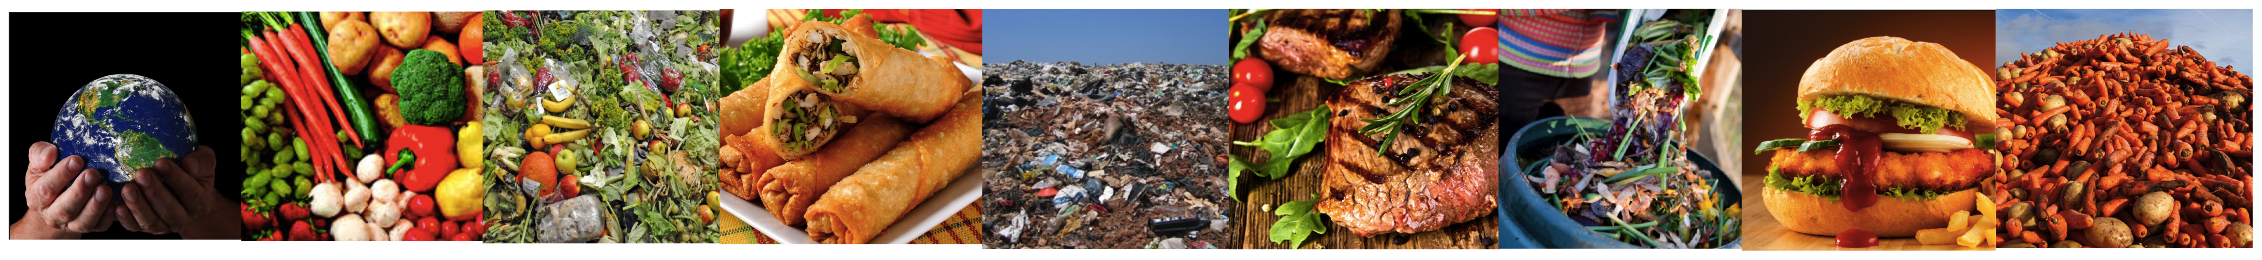
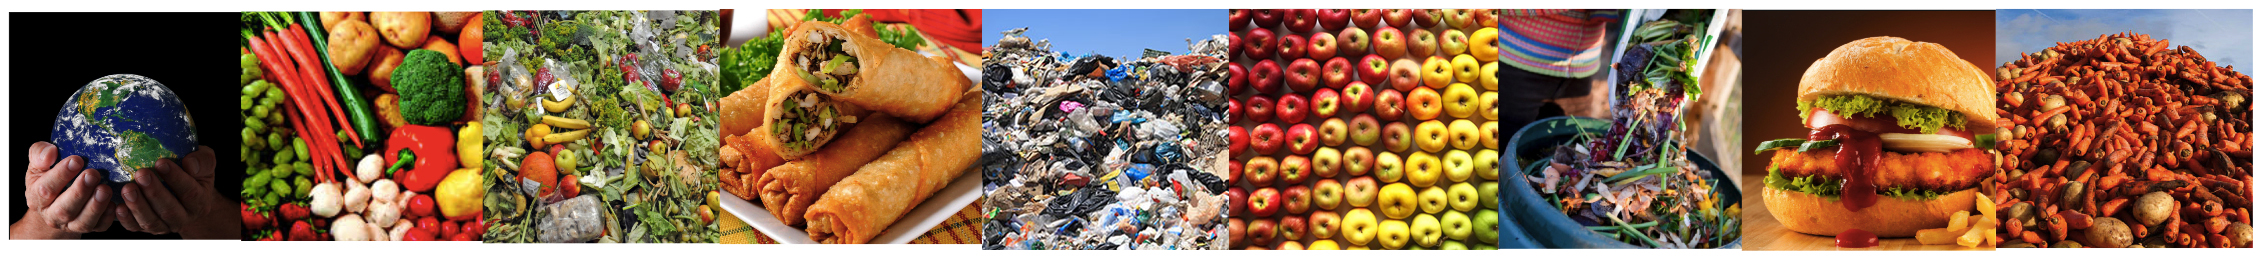
Updated Header Image; Cleaned up code

Changed region(s): [[0.4332, 0.0308, 0.6808, 0.9846]]

diff --git a/index.html b/index.html
@@ -13,7 +13,7 @@
         <div class="text-center">
             <h1>WASTE MATTERS!</h1>
             <p class="lead">
-            <h3 style= "color: #539dba"> Understanding food waste on the global, local and personal level.</h3>
+                <h3 style= "color: #539dba"> Understanding food waste on the global, local and personal level.</h3>
             </p>
         </div>
 
@@ -23,14 +23,6 @@
                 <img src="img/Pic1.jpg">
             </div>
         </div>
-
-
-
-<!--        <header class="row">
-            <div class="col-xs-12">
-                <img src="img/header.png">
-            </div>
-        </header>-->
 
 
 
@@ -126,60 +118,6 @@
 
 
                     </div>
-
-
-                        <!--<div class="col-xs-12">
-
-                        <h4>Main Quesitons:</h4>
-                        <table class="table table-bordered table-striped">
-                            <thead>
-                                <tr>
-                                    <th>How/What/When/Why</th>
-                                    <th>Teasers</th>
-                                    <th>Explore It!</th>
-                                </tr>
-                            </thead>
-                            <tbody>
-                                <tr>
-                                    <td>How much food is wasted worldwide, by country?</td>
-                                    <td>
-                                        According to FAO 1/3 of total food produced globally goes to waste.<br><br>
-                                        Some countries waste more food than others - many factors come into play.
-                                    </td>
-                                    <td>Select a year & Click on a country.</td>
-                                </tr>
-                                <tr>
-                                    <td>Which types of foods are most wasted?</td>
-                                    <td>
-                                        Some food types are wasted more than others around the world, and this amount changes across years.<br>
-                                        High calorie foods are wasted the most.
-                                    </td>
-                                    <td>
-                                        Click on the drop down to select from one of the top 10 food types.<br><br>
-                                        <i>Even Alcoholic beverages have a place in food waste.</i>
-                                    </td>
-                                </tr>
-                                <tr>
-                                    <td>What are the temporal trends in food waste?</td>
-                                    <td>Food waste is not static; across the years levels of food wasted per country have changed, as well per food type.</td>
-                                    <td>With the slider you can check for trends by country and/or food type.</td>
-                                </tr>
-                                <tr>
-                                    <td>How does a country's average income correlate with food waste?</td>
-                                    <td>Countries with higher average income tend to waste more food.</td>
-                                    <td>With the line graph you can see the relationship between food waste and income per capita.</td>
-                                </tr>
-                                <tr>
-                                    <td>What can be done locally to reduce food waste?</td>
-                                    <td>Everyone can reduce the amount of food wasted -  you can do this with simple changes to your day-to-day life.</td>
-                                    <td>
-                                        Check out the map for a food bank or food pantry near you.<br><br>
-                                        Don’t miss our STOP WASTING FOOD tips! Easy to do & share.
-                                    </td>
-                                </tr>
-                            </tbody>
-                        </table>
-                    </div>-->
                 </div>
                 <div class="col-xs-12">
                     <div class="row">
@@ -247,7 +185,7 @@
                         <br>
                         <br>
                         <p class="lead">
-                        <h2 style="color:#41AB5D">Food Waste: a local problem.</h2>
+                            <h2 style="color:#41AB5D">Food Waste: a local problem.</h2>
                         </p>
                     </div>
 
@@ -280,65 +218,6 @@
                         <i> What can you tell about your zipcode?</i>
 
                     </div>
-
-                    <!--<div class="col-xs-6">
-                        <p>In America it’s estimated that 1860000 tones of food were wasted in 2011. Image 6000 airplanes with cargo- putting them together they will create a line long enough to cover the distance BOSTON - PARIS.</p>
-                        <img src="img/local.png">
-                        <p>Consumer and foodservice food waste is the largest source of food waste, this includes restaurants, universities and hospitals. This issue happens in all countries and in all cities, including your city. Discover the main contributors of food waste in Boston.</p>
-                    </div>-->
-
-                    <!--<div class="col-sm-4" id="massMapm">
-
-                        <form class="form-inline">
-                            <div class="form-group">
-
-                                <label for="Selector">Data: </label>
-                                <select class="form-control" id="selector">
-                                    <option value="Waste">Total Waste</option>
-                                    <option value="F">Waste of Food and Beverage Manufacturers/Processors</option>
-                                    <option value="W">Waste of Wholesale Distributors</option>
-                                    <option value="IH">Waste of Healthcare Facilities</option>
-                                    <option value="IS">Waste of Independent Schools</option>
-                                    <option value="IC">Waste of Colleges/Universities</option>
-                                    <option value="IP">Waste of Correctional Facilities</option>
-                                    <option value="C">Waste of Resorts and Conference Facilities</option>
-                                    <option value="G">Waste of Resorts and Restaurants</option>
-                                    <option value="R">Waste of Supermarkets and Grocery Stores</option>
-                                </select>
-
-                            </div>
-                        </form>
-
-                    </div>-->
-
-
-
-
-<!--                    <div class="col-sm-4" id="massMap">
-                        <form class="form-inline">
-                            <div class="form-group">
-
-                            <label for="Selector">Data: </label>
-                        <select class="form-control" id="selector">
-                            <option value="Waste">Total Waste</option>
-                            <option value="F">Waste of Food and Beverage Manufacturers/Processors</option>
-                            <option value="W">Waste of Wholesale Distributors</option>
-                            <option value="IH">Waste of Healthcare Facilities</option>
-                            <option value="IS">Waste of Independent Schools</option>
-                            <option value="IC">Waste of Colleges/Universities</option>
-                            <option value="IP">Waste of Correctional Facilities</option>
-                            <option value="C">Waste of Resorts and Conference Facilities</option>
-                            <option value="G">Waste of Resorts and Restaurants</option>
-                            <option value="R">Waste of Supermarkets and Grocery Stores</option>
-                        </select>
-
-                            </div>
-                        </form>
-
-                    </div>
-                </div>-->
-
-
                     <div class="row">
                         <div class="col-xs-7" id="p1">
                             <div id="main">
@@ -370,17 +249,9 @@
                                         <option value="G">Waste of Resorts and Restaurants</option>
                                         <option value="R">Waste of Supermarkets and Grocery Stores</option>
                                     </select>
-
                                 </div>
                             </form>
-
-
-
-
                         </div>
-
-
-
                     </div>
 
 
@@ -402,7 +273,7 @@
                     <br>
                     <br>
                     <p class="lead">
-                    <h2 style="color:#D1B717">Food Waste: a personal problem.</h2>
+                        <h2 style="color:#D1B717">Food Waste: a personal problem.</h2>
                     </p>
                 </div>
 
@@ -425,7 +296,7 @@
                         <div class="col-xs-12">
                             Sharing your food at food banks can be highly effective.You can also encourage your friends and family to donate theirs.
                             There are many institutions like these close to you.
-                            <h5 style="color:#D1B717">Check the map on the right to find the  foodbank - food pantry closest to you.</h5>
+                            <h5 style="color:#D1B717">Check the map on the right to find the foodbank - food pantry closest to you.</h5>
 
                             <br>
                             <br>
@@ -442,7 +313,7 @@
                     <br>
                     <br>
                     <p class="lead">
-                    <h2 style="color:#c97424">Food Waste: conclusions.</h2>
+                        <h2 style="color:#c97424">Food Waste: conclusions.</h2>
                     </p>
                 </div>
 
@@ -466,6 +337,8 @@
                         Data References:
                     </p>
                     <div class="list-group">
+                        <a href="http://data.worldbank.org/" class="list-group-item">World Map Data</a>
+                        <a href="http://faostat3.fao.org/download/FB/BC/E" class="list-group-item">World Map Data</a>
                         <a href="https://www.dropbox.com/sh/3kcuy1arl3pa8ox/AAASxNvH4wJz05DkwcX_X05Ma/Mass%20Food" class="list-group-item">Massachusetts Food Waste</a>
                         <a href="http://www.zillow.com/static/shp/ZillowNeighborhoods-MA.zip" class="list-group-item">Boston Map</a>
                         <a href="https://data.cityofboston.gov/City-Services/Boston-CANshare-Sites-2012/7xqx-zy2t" class="list-group-item">Boston Food Sharing Locations</a>
@@ -474,12 +347,27 @@
                     <p class="lead">
                         Design References:
                     </p>
+                    <small>We explicitly used and adapted (javascript,css,html) code from the following websites</small>
                     <div class="list-group">
                         <a href="https://bl.ocks.org/kerryrodden/7090426" class="list-group-item">Kerry Rodden: Sequences sunburst</a>
                         <a href="http://stackoverflow.com/questions/24582083/improving-d3-sequence-sunburst-example" class="list-group-item">Improving D3 Sequence Sunburst Example</a>
                         <a href="http://bl.ocks.org/KoGor/5685876" class="list-group-item"> http://bl.ocks.org: Russia choropleth example</a>
                         <a href="https://bl.ocks.org/mbostock/3885211" class="list-group-item">Stacked Area Chart</a>
                         <a href="http://bl.ocks.org/mbostock/2206340" class="list-group-item">Zoom Function</a>
+                    </div>
+
+                    <p class="lead">
+                        Image References:
+                    </p>
+                    <div class="list-group">
+                        <a href="http://www.technobuffalo.com/wp-content/uploads/2014/04/fast-food.jpg" class="list-group-item">Header Image</a>
+                        <a href="http://images.huffingtonpost.com/2015-12-23-1450895141-5774790-food02.jpg" class="list-group-item">Header Image</a>
+                        <a href="https://eat24-files-live.s3.amazonaws.com/cuisines/v4/thai.jpg?Signature=p0GblKZzVrDGppUt9mhESV70q0I%3D&Expires=1462135894&AWSAccessKeyId=AKIAIEJ2GCCJRT63TBYA" class="list-group-item">Header Image</a>
+                        <a href="http://www.lowmac.co.uk/wp-content/uploads/2013/10/food-waste.jpg" class="list-group-item">Header Image</a>
+                        <a href="http://i.telegraph.co.uk/multimedia/archive/03523/Wasted_vegetable_p_3523442b.jpg" class="list-group-item">Header Image</a>
+                        <a href="http://hgtvhome.sndimg.com/content/dam/images/hgtv/fullset/2010/11/10/1/iStock-9013928_Kitchen-Waste-Composting_s3x4.jpg.rend.hgtvcom.1280.1707.jpeg" class="list-group-item">Header Image</a>
+                        <a href="http://also.kottke.org/misc/images/food-gradients-03.jpg" class="list-group-item">Header Image</a>
+                        <a href="https://ellensburgumccom.files.wordpress.com/2014/10/world-in-gods-hands.jpg" class="list-group-item">Header Image</a>
                     </div>
 
 
@@ -489,28 +377,6 @@
 
             </div>
         </main>
-
-
-                <!--<div class="row">
-                    <div class="col-xs-12">
-                        <h3>Food Waste as a Personal Problem</h3>
-                    </div>
-                    <div class="col-xs-6">
-                        <p>Food waste affects us all.</p>
-                        <img src="img/personal.png">
-                        <p>Food waste has an ecological and economical impact that permeates through all aspects of our life.</p>
-                        <p>You can help to turn it around, by taking some small steps - and STOP WASTING FOOD.</p>
-                        <p>There is a lot you can doto reduce the amount of food waste you and your close ones produce.  Some tips for you:</p>
-                        <p><strong>Shop Wisely</strong> - plan your meals, try not to fall for impulse buys that you will later throw away.</p>
-                        <p><strong>Buy fruit and vegetables of all size and colors</strong> - a lot of fruits and vegetables go to waste because they don’t look like in the magazines, but even funny looking ones taste delicious.</p>
-                        <p><strong>Eat leftovers</strong> - there is nothing wrong with asking for a doggy bag after eating out - you can enjoy it later or the next day.</p>
-                        <p><strong>Donate Food:</strong> you can donate that extra food instead of throwing it away to food banks or food pantries</p>
-                        <p><strong>There are many institutions like these close to you, check this map to find the closest to you. </strong></p>
-                        <p>You can also encourage your friends and family to donate theirs.</p>
-                    </div>
-
-                </div>
-            </div>-->
 
         <footer class="row">
             <div class="col-xs-12">

diff --git a/js/main.js b/js/main.js
@@ -20,7 +20,6 @@ var worldMapHeight = col6Height*1.67;
 
 
 // Other common variables
-var formatDate = d3.time.format("%Y"); // Date parser (https://github.com/mbostock/d3/wiki/Time-Formatting)
 var commaFormat = d3.format(",");
 var g;
 
@@ -47,8 +46,6 @@ var worldMapSvg = d3.select("#worldMap").append("svg")
 
 
 // Define Scales
-//var worldLineXScale = d3.scale.ordinal()
-//    .range([0, worldLineWidth/2, worldLineWidth]);
 var worldLineXScale = d3.scale.ordinal()
     .rangeRoundBands([0, worldLineWidth], .1);
 var worldLineYDollarScale = d3.scale.linear()
@@ -73,10 +70,6 @@ var worldMapColorScale = d3.scale.threshold()
 
 
 // Initial chart path descriptions
-//var worldLineLine = d3.svg.line();
-//var worldLinePath = worldLineSvg.append("path")
-//    .attr("class", "line");
-
 var worldAreaArea = d3.svg.area()
     .x(function(d) {
         return worldAreaXScale(d.date);
@@ -261,8 +254,6 @@ function updateVisualization() {
 
 
     // Country Filtering
-    //selectedCountries = [];
-
     console.log(selectedCountries);
     if(selectedCountries.length > 0){
         tempWorldLineData = worldLineData.filter(function(d){
@@ -404,23 +395,6 @@ function updateVisualization() {
 
 
     // Update Visualization Proper
-    /*
-    worldLineLine
-        .defined(function(d){return d.Value;})
-        .x(function(d) {
-            return worldLineXScale(d.Category);
-        })
-        .y(function(d) {
-            return worldLineYDollarScale(d.Value);
-        });
-
-    worldLinePath
-        .datum(tempWorldLineData)
-        .transition()
-        .duration(800)
-        .attr("d", worldLineLine);
-    */
-
     var worldLineLine = worldLineSvg.selectAll("rect")
         .data(tempWorldLineData);
 

diff --git a/js/boston.js b/js/boston.js
@@ -89,7 +89,7 @@ function updateBostonVisualization() {
     ;
 
 
-    // Higlight locations
+    // Highlight locations
     bostonMapSvg.selectAll("circle")
         .data(bostonFoodSites)
         .enter().append("circle")
